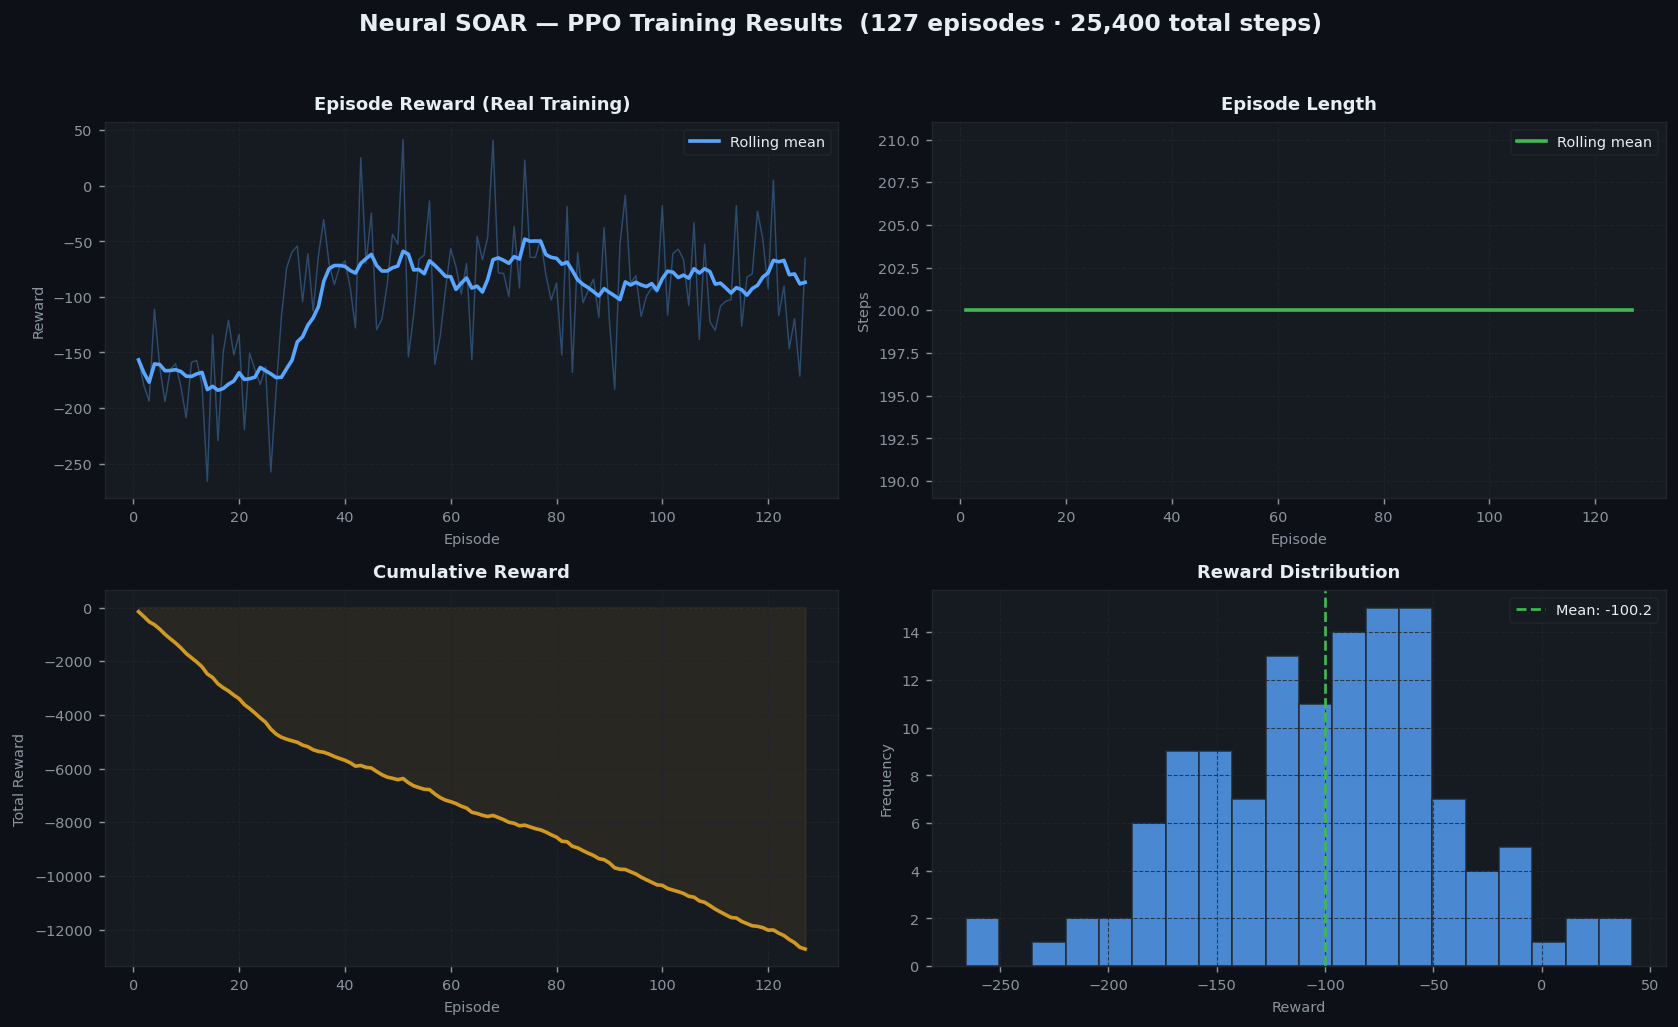
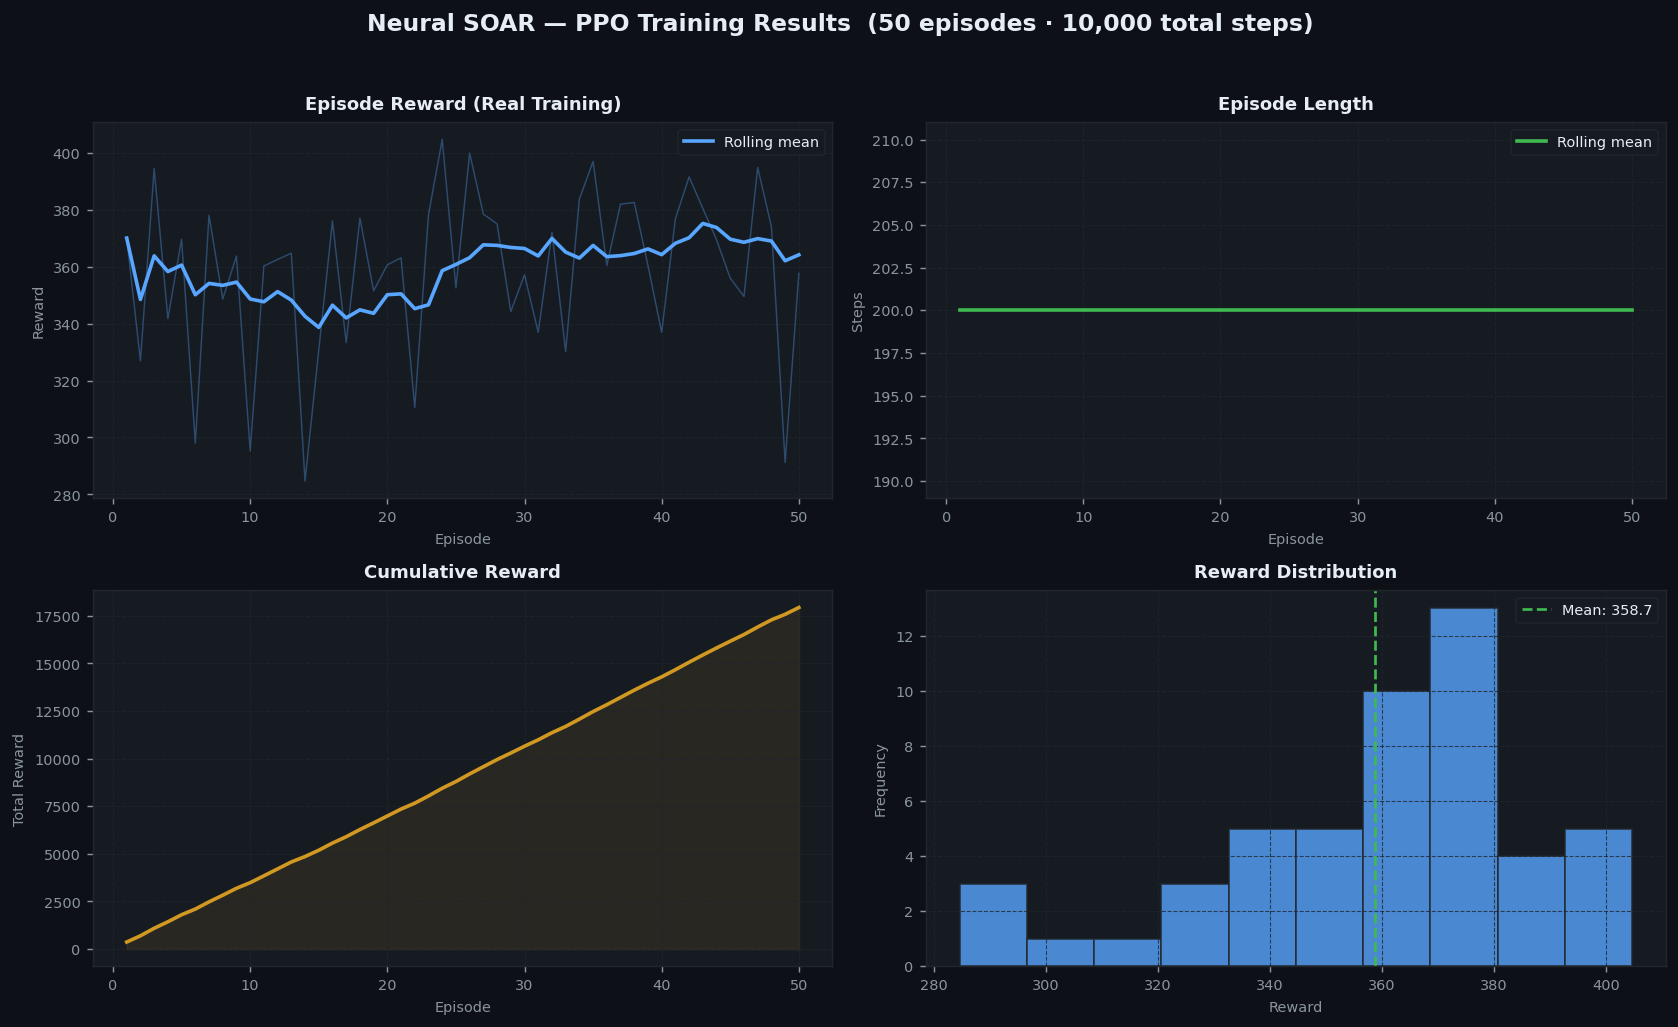
docs: add real PPO training curve (50k timesteps)
- Copy logs/training_visualization.png → docs/images/training_curve.png
- Embed in README under Visualize Training section
- 4-panel chart: episode reward, length, cumulative reward, distribution
- Data from 50 evaluation episodes after real PPO training (mean reward 358.68)

diff --git a/README.md b/README.md
@@ -426,6 +426,12 @@ python scripts/visualize_training.py
 
 Generates `training_visualization.png` with 4 panels: reward curve, action distribution, response latency percentiles, security score over time.
 
+**Real PPO Training Results (50,000 timesteps):**
+
+![PPO Training Curve](docs/images/training_curve.png)
+
+*Episode reward, episode length, cumulative reward, and reward distribution — collected from 50 evaluation episodes after training.*
+
 ---
 
 ## 📄 License
